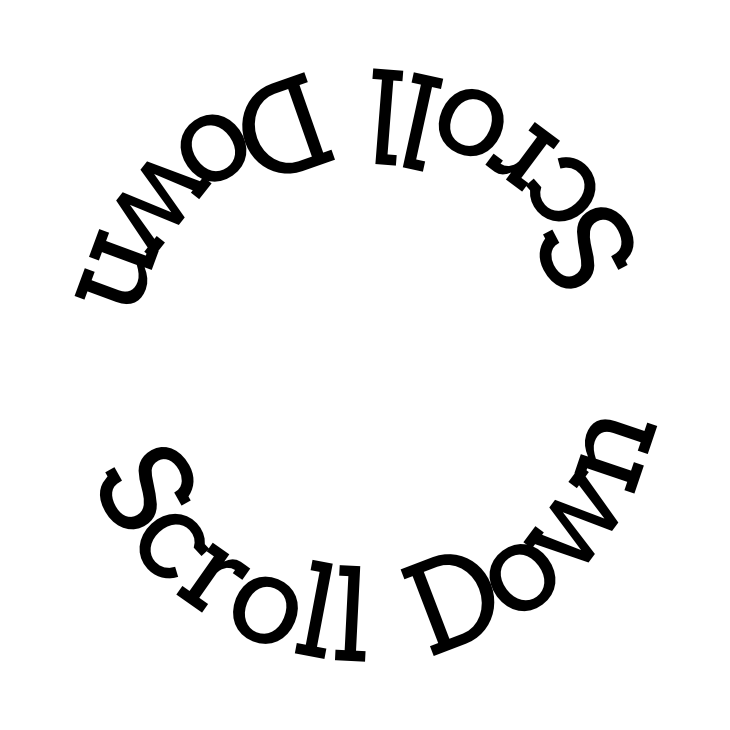
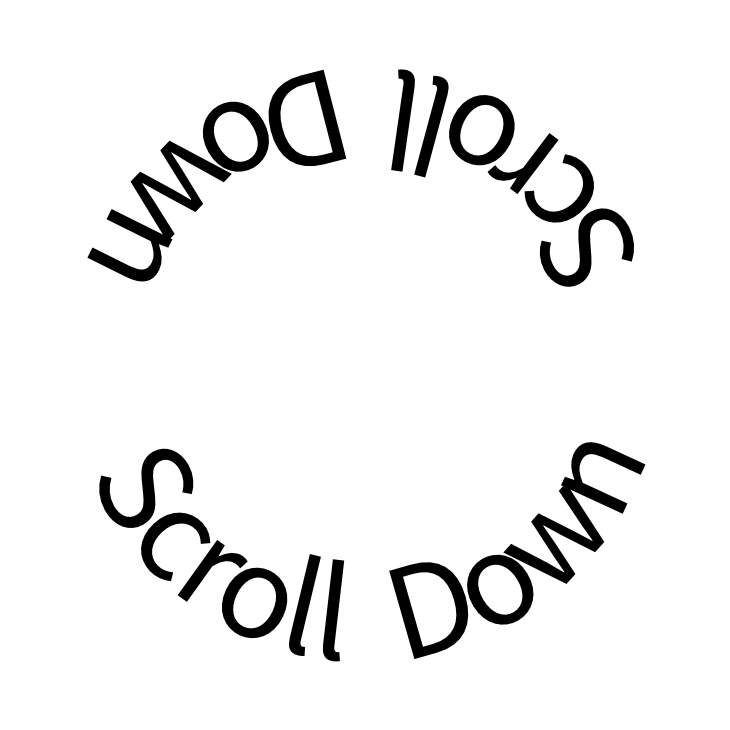
Added Subheadings

diff --git a/src/components/MainPage.js b/src/components/MainPage.js
@@ -3,6 +3,8 @@ import '../styles/newHomepage.scss'
 import smoothscroll from 'smoothscroll-polyfill';
 import { useEffect } from "react";
 import Cursor from "./Cursor";
+import SmoothScroll from "./SmoothScroll";
+import Subheading from "./Subheading";
 
 const MainPage = () => {
 
@@ -12,21 +14,25 @@ const MainPage = () => {
 
 
     return (
-        <div className='wrapper'>
-            {/* <div className='navbar'>
+        <>
+            {/* <SmoothScroll> */}
+            <Cursor />
+            <div className='wrapper'>
+                {/* <div className='navbar'>
                 <ul href='#'>Home</ul>
                 <ul href='#about me'>About Me</ul>
                 <ul href='#my work'>My Work</ul>
                 <ul href='#contact me'>Contact Me</ul>
             </div> */}
-            {/* <h1 className='title' >Portfolio</h1> */}
-            <Cursor text='Scroll For More' />
-            <section id='landing-page'>
-                <TorusKnot style={{ position: 'fixed', top: '0', left: '0', zIndex: 10 }} />
-            </section>
-            <div className='spacer' />
-            {/* <div style={{ backgroundColor: '#0d0d0d', width: '100vw', height: '100vh', left: 0, top: 0, position: "fixed", zIndex: -1000 }} /> */}
-        </div>
+                {/* <h1 className='title' >Portfolio</h1> */}
+                <section id='landing-page'>
+                    <TorusKnot style={{ position: 'absolute', top: '0', left: '0', zIndex: 0, overflowX: 'hidden' }} />
+                    <div className='spacer' />
+                    <Subheading title='WORK' />
+                </section>
+            </div>
+            {/* </SmoothScroll> */}
+        </>
     )
 }
 

diff --git a/src/components/SmoothScroll.js b/src/components/SmoothScroll.js
@@ -1,0 +1,54 @@
+import React, { useEffect, useRef } from "react";
+
+import '../styles/smoothScroll.scss'
+import useWindowSize from "../hooks/useWindowSize";
+
+const SmoothScroll = ({ children }) => {
+    // 1.
+    const windowSize = useWindowSize();
+
+    //2.
+    const scrollingContainerRef = useRef();
+
+    // 3.
+    const data = {
+        ease: 0.1,
+        current: 0,
+        previous: 0,
+        rounded: 0,
+    };
+
+    // 4.
+    useEffect(() => {
+        setBodyHeight();
+    }, [windowSize.height]);
+
+    const setBodyHeight = () => {
+        document.body.style.height = `${scrollingContainerRef.current.getBoundingClientRect().height
+            }px`;
+    };
+
+    // 5.
+    useEffect(() => {
+        requestAnimationFrame(() => smoothScrollingHandler());
+    }, []);
+
+    const smoothScrollingHandler = () => {
+        data.current = window.scrollY;
+        data.previous += (data.current - data.previous) * data.ease;
+        data.rounded = Math.round(data.previous * 100) / 100;
+
+        scrollingContainerRef.current.style.transform = `translateY(-${data.previous}px)`;
+
+        // Recursive call
+        requestAnimationFrame(() => smoothScrollingHandler());
+    };
+
+    return (
+        <div className="parent">
+            <div ref={scrollingContainerRef}>{children}</div>
+        </div>
+    );
+};
+
+export default SmoothScroll;

diff --git a/src/hooks/useWindowSize.js b/src/hooks/useWindowSize.js
@@ -1,0 +1,23 @@
+import { useState, useEffect } from "react";
+
+export default function useWindowSize() {
+    const getSize = () => {
+        return {
+            width: window.innerWidth,
+            height: window.innerHeight,
+        };
+    };
+
+    const [windowSize, setWindowSize] = useState(getSize);
+
+    useEffect(() => {
+        const handleResize = () => {
+            setWindowSize(getSize());
+        };
+
+        window.addEventListener("resize", handleResize);
+        return () => window.removeEventListener("resize", handleResize);
+    }, []);
+
+    return windowSize;
+}

diff --git a/src/components/TorusKnot.js b/src/components/TorusKnot.js
@@ -34,7 +34,7 @@ function fragmentShader() {
     uniform float uScrolled;
     
     void main() {
-      float scrolled = uScrolled * 0.001;
+      float scrolled = uScrolled * 0.25;
       vec2 repeat = -vec2(15., 3.);
       vec2 uv = fract(vUv * repeat - vec2(scrolled, 0.));
     
@@ -142,7 +142,7 @@ const TorusKnot = (props) => {
     const render = () => {
         // controls.update()
 
-        material.uniforms.uScrolled.value = window.scrollY
+        material.uniforms.uScrolled.value = clock.getElapsedTime()
 
         renderer.render(scene, camera)
     }

diff --git a/src/styles/newHomepage.scss b/src/styles/newHomepage.scss
@@ -11,16 +11,20 @@ $textOutline: 10px;
 * {
   //   width: 100vw;
   //   height: 100vh;
-  font-family: "Arvo", serif;
+  // font-family: "Arvo", serif;
 
-  cursor: none;
+  // cursor: none;
 
   margin: 0;
   padding: 0;
   color: white;
   background-color: #0d0d0d;
-  // overflow-: hidden;
+  // overflow-x: hidden;
   // font-family: "Novecento", "Inter", sans-serif;
+}
+
+html {
+  overflow-x: hidden;
 }
 
 .wrapper {
@@ -52,6 +56,7 @@ $textOutline: 10px;
 }
 
 .spacer {
-  height: 1000vh;
-  width: 100vw;
+  height: 150vh;
+  width: 10px;
+  // width: 100vw;
 }

diff --git a/src/styles/subheading.scss b/src/styles/subheading.scss
@@ -1,0 +1,21 @@
+@import url("https://fonts.googleapis.com/css2?family=Syncopate:wght@700&display=swap");
+
+.subheading {
+  font-family: "Syncopate", sans-serif;
+  font-size: 4vw;
+  word-spacing: 2px;
+  width: 100vw;
+
+  user-select: none;
+
+  .outline {
+    -webkit-text-stroke: 0.2vw #505050;
+    color: #000;
+  }
+
+  h1 {
+    height: 4.5vw;
+    text-align: end;
+    padding-right: 5vw;
+  }
+}

diff --git a/src/styles/cursor.scss b/src/styles/cursor.scss
@@ -12,14 +12,14 @@
 }
 
 .cursor-dot {
-  width: 8px;
-  height: 8px;
-  background-color: white;
+  width: 1vw;
+  height: 1vw;
+  background-color: rgba(255, 255, 255, 0);
 }
 
 .cursor-dot-outline {
-  width: 80px;
-  height: 80px;
+  width: 5vw;
+  height: 5vw;
   animation: rotation 10s infinite linear;
   //   background-color: rgba(255, 255, 255, 0.301);
 }

diff --git a/src/components/Subheading.js b/src/components/Subheading.js
@@ -1,0 +1,15 @@
+import '../styles/subheading.scss'
+
+const Subheading = (props) => {
+
+    return (
+        <div className='subheading'>
+            <h1 className='outline'>{props.title}</h1>
+            <h1 className='filled'>{props.title}</h1>
+            <h1 className='outline'>{props.title}</h1>
+        </div>
+    )
+
+}
+
+export default Subheading

diff --git a/src/styles/smoothScroll.scss b/src/styles/smoothScroll.scss
@@ -1,0 +1,9 @@
+.parent {
+  position: fixed;
+  top: 0;
+  left: 0;
+  width: 100%;
+  height: 100%;
+  overflow: hidden;
+  pointer-events: none;
+}
